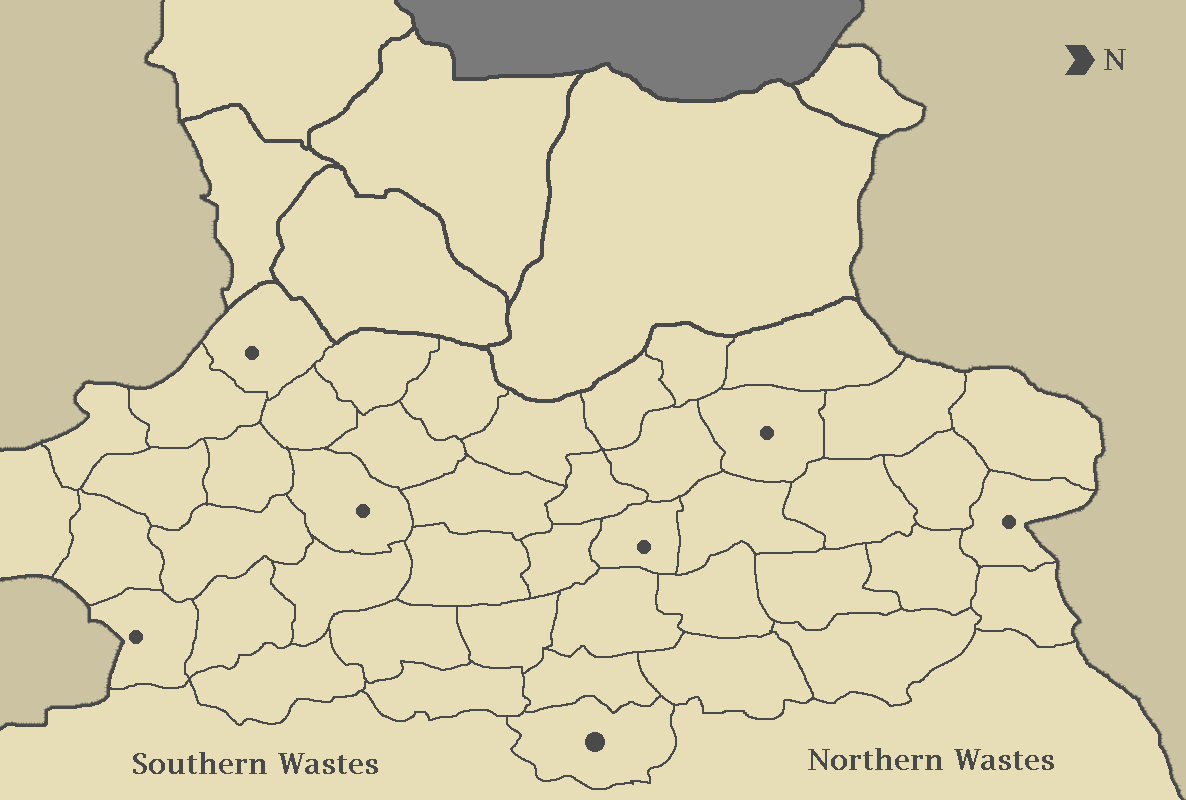
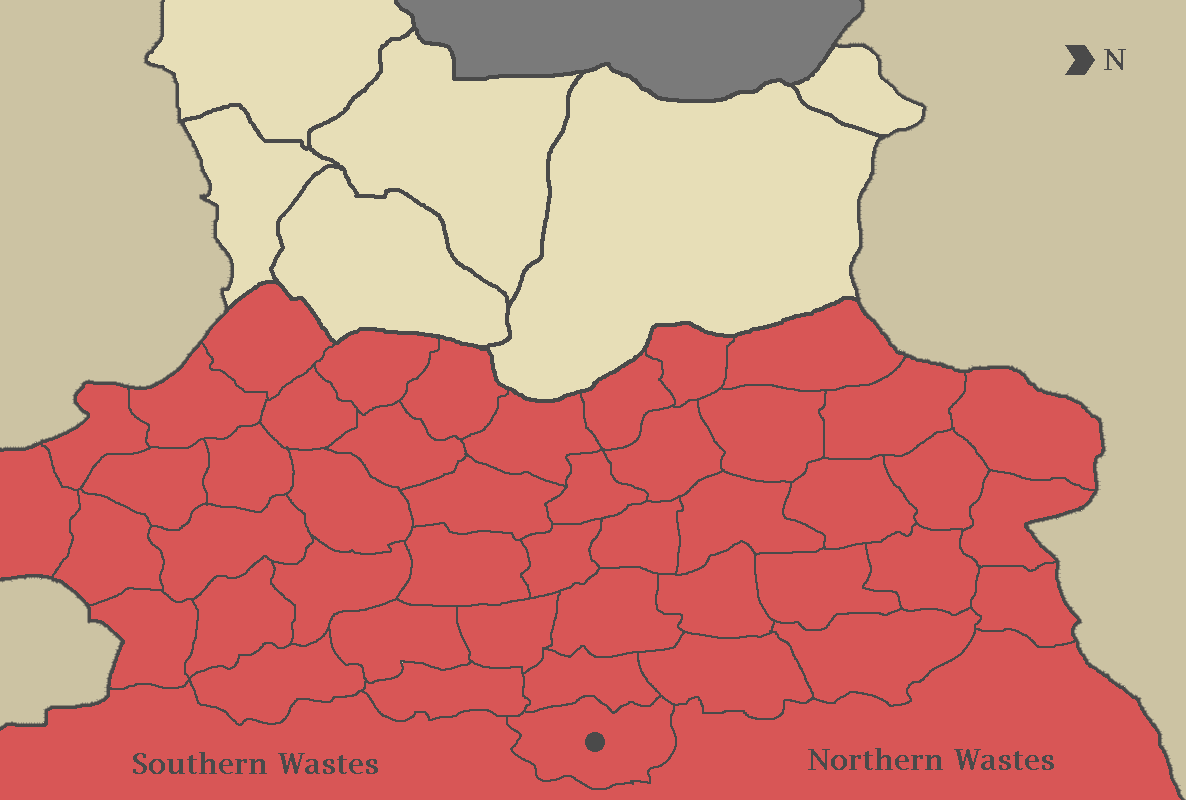
Map with our territory; FloodFillFetch

diff --git a/Assets/Scripts/DrawingUtils.cs b/Assets/Scripts/DrawingUtils.cs
@@ -6,7 +6,6 @@ public static class DrawingUtils
 
     public struct Point
     {
-
         public int x;
         public int y;
 
@@ -17,9 +16,8 @@ public static class DrawingUtils
         }
     }
 
-    public static void FloodFill(Texture2D input, Texture2D output, Color sourceColor, float tollerance, int x, int y)
+    public static void FloodFill(Texture2D input, Texture2D output, Color sourceColor, Color targetColor, float tollerance, int x, int y)
     {
-        var targetColor = Color.red;
         var q = new Queue<Point>(input.width * input.height);
         q.Enqueue(new Point(x, y));
         int iterations = 0;
@@ -61,6 +59,55 @@ public static class DrawingUtils
 
             iterations++;
         }
+    }
+
+    public static List<Point> FloodFillFetch(Texture2D input, Texture2D output, Color sourceColor, Color targetColor, float tollerance, int x, int y)
+    {
+        List<Point> points = new List<Point>();
+
+        var q = new Queue<Point>(input.width * input.height);
+        q.Enqueue(new Point(x, y));
+        int iterations = 0;
+
+        var width = input.width;
+        var height = input.height;
+        while (q.Count > 0)
+        {
+            var point = q.Dequeue();
+            var x1 = point.x;
+            var y1 = point.y;
+            if (q.Count > width * height)
+            {
+                throw new System.Exception("The algorithm is probably looping. Queue size: " + q.Count);
+            }
+
+            if (points.Contains(new Point(x1, y1)))
+            {
+                continue;
+            }
+
+            points.Add(new Point(x1,y1));
+
+            var newPoint = new Point(x1 + 1, y1);
+            if (CheckValidity(input, input.width, input.height, newPoint, sourceColor, tollerance))
+                q.Enqueue(newPoint);
+
+            newPoint = new Point(x1 - 1, y1);
+            if (CheckValidity(input, input.width, input.height, newPoint, sourceColor, tollerance))
+                q.Enqueue(newPoint);
+
+            newPoint = new Point(x1, y1 + 1);
+            if (CheckValidity(input, input.width, input.height, newPoint, sourceColor, tollerance))
+                q.Enqueue(newPoint);
+
+            newPoint = new Point(x1, y1 - 1);
+            if (CheckValidity(input, input.width, input.height, newPoint, sourceColor, tollerance))
+                q.Enqueue(newPoint);
+
+            iterations++;
+        }
+
+        return points;
     }
 
     static bool CheckValidity(Texture2D texture, int width, int height, Point p, Color sourceColor, float tollerance)

diff --git a/Assets/Scripts/Map.cs b/Assets/Scripts/Map.cs
@@ -1,0 +1,9 @@
+using System;
+using System.Collections;
+using System.Collections.Generic;
+using UnityEngine;
+
+public class Map
+{
+    public int stage;
+}
